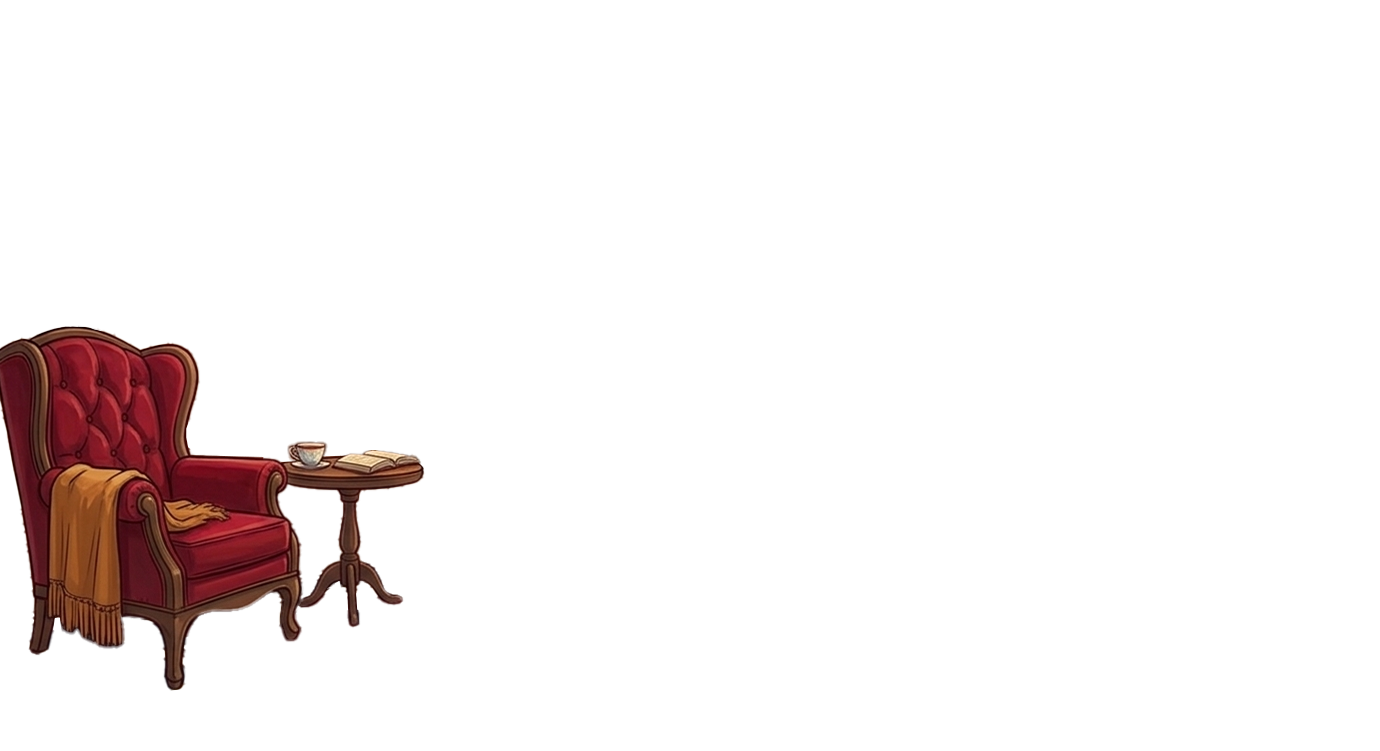
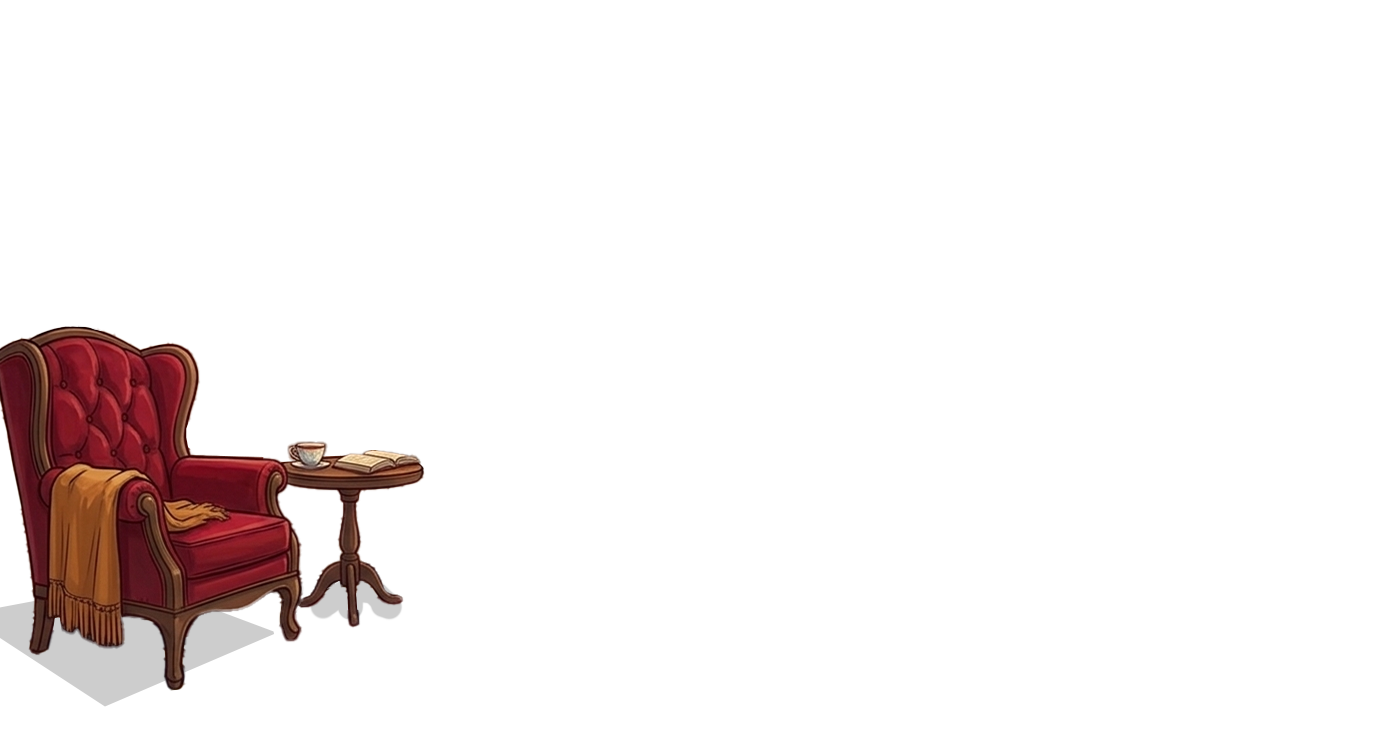
as

Changed region(s): [[0.0, 0.7963, 0.2181, 0.9494], [0.2181, 0.7656, 0.3116, 0.8269]]

diff --git a/petgame_room_config.py b/petgame_room_config.py
@@ -288,7 +288,7 @@ ROOM_ITEMS = {
             'key':       'scut',
             'name':      'Scut',
             'desc':      'Scut Regnum Dacorum.',
-            'price':     300,
+            'price':     500,
             'file':      'scut.png',
             'default':   False,
             'clickable': False,